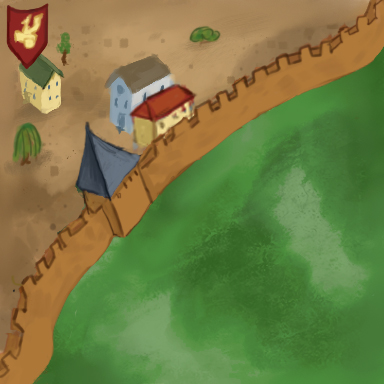
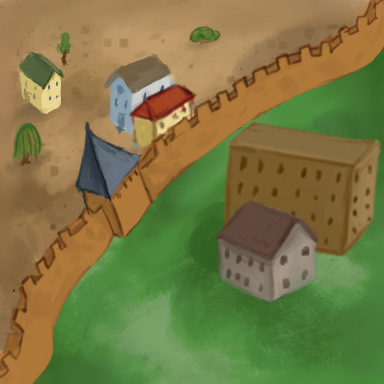
fix(tiles): new start tile

Changed region(s): [[0.5, 0.3125, 1.0, 0.7812], [0.0, 0.0, 0.125, 0.1875]]

diff --git a/client/src/pages/HomePage/modules/Rules.tsx b/client/src/pages/HomePage/modules/Rules.tsx
@@ -5,13 +5,10 @@ import {BsBrightnessHigh, BsHouse, BsLightningCharge, BsPeople, BsPerson, BsStac
 import {HiOutlineSquare3Stack3D} from "react-icons/hi2";
 import {GiBrain, GiChessKing} from "react-icons/gi";
 import {FaRegChessKnight} from "react-icons/fa6";
+import {H2} from "@UI/Typography/H2.tsx";
 
-interface HeroSectionProps {
 
-}
-
-// https://floatui.com/components/feature-sections
-export const FeaturesSection: React.FC<HeroSectionProps> = memo(({}) => {
+export const Rules: React.FC<{}> = memo(({}) => {
 
     const features = [
         {
@@ -47,11 +44,34 @@ export const FeaturesSection: React.FC<HeroSectionProps> = memo(({}) => {
     ];
 
     return (
-        <section className="" id="features">
+        <section className="mt-12" id="features">
             <div className="page-container py- text-gray-60">
-                <H3 className="mb-5 text-app-accent sm:text-2xl text-xl">Преимущества:</H3>
+                <H2 className="mb-5 text-app-accent text-3xl">Краткие правила:</H2>
 
-                <Features features={features} />
+                <div className="w-full text-left text-lg">
+                    В «СмолКассоне» вам предстоит составлять карту Смоленска из квадратов с нарисованными на них
+                    дорогами, крепостью и посадами. На эти квадраты, которые называются <b>тайлы</b>, вы будете ставить
+                    фишки известных людей Смоленщины - <b>Смоляне</b>, чтобы впоследствии получить за них победные очки.
+                    В ходе партии один из игроков может сильно вырваться вперёд, однако победа присуждается только по результатам финального подсчёта очков.
+                </div>
+
+                <ul className="grid gap-y-12 gap-x-12 sm:grid-cols-2 lg:grid-cols-3">
+                    <li className="space-y-3 text-center">
+                        <div
+                            className="w-12 h-12 mx-auto bg-indigo-50 text-indigo-600 rounded-full flex items-center justify-center"
+                        >
+
+                        </div>
+
+                        <h4 className="text-lg text-gray-800 font-semibold">
+                            Выбор Смолян
+                        </h4>
+
+                        <p>
+                            На тайлах изображе
+                        </p>
+                    </li>
+                </ul>
             </div>
         </section>
     );

diff --git a/client/src/pages/GamePage/classes/TilesDeck.tsx b/client/src/pages/GamePage/classes/TilesDeck.tsx
@@ -40,9 +40,10 @@ class TilesDeck {
         {id: 16, design: "F", borders: ['field', 'city', 'field', 'city'], pennant: true, rotation: 0},
         {id: 17, design: "F", borders: ['field', 'city', 'field', 'city'], pennant: true, rotation: 0},
         {id: 18, design: "G", borders: ['field', 'city', 'field', 'city'], rotation: 0},
+        {id: 18, design: "G", borders: ['field', 'city', 'field', 'city'], rotation: 0},
         {id: 22, design: "I", borders: ['city', 'field', 'field', 'city'], rotation: 0},
         {id: 23, design: "I", borders: ['city', 'field', 'field', 'city'], rotation: 0},
-        {id: 24, design: "J", borders: ['city', 'road', 'road', 'field'], rotation: 0},
+        {id: 24, design: "J-1", borders: ['city', 'road', 'road', 'field'], rotation: 0},
         {id: 25, design: "J", borders: ['city', 'road', 'road', 'field'], rotation: 0},
         {id: 26, design: "J", borders: ['city', 'road', 'road', 'field'], rotation: 0},
         {id: 33, design: "M", borders: ['city', 'field', 'field', 'city'], pennant: true, rotation: 0},
@@ -50,6 +51,7 @@ class TilesDeck {
         {id: 40, design: "P", borders: ['city', 'road', 'road', 'city'], rotation: 0},
         {id: 41, design: "P", borders: ['city', 'road', 'road', 'city'], rotation: 0},
         {id: 42, design: "P", borders: ['city', 'road', 'road', 'city'], rotation: 0},
+        {id: 42, design: "R-1", borders: ['field', 'road', 'city', 'road'], rotation: 0},
         {id: 50, design: "U", borders: ['road', 'field', 'road', 'field'], rotation: 0},
         {id: 51, design: "U", borders: ['road', 'field', 'road', 'field'], rotation: 0},
         {id: 52, design: "U", borders: ['road', 'field', 'road', 'field'], rotation: 0},

diff --git a/client/src/pages/HomePage/HomePage.tsx b/client/src/pages/HomePage/HomePage.tsx
@@ -7,6 +7,7 @@ import {CTASection} from "@pages/HomePage/modules/CTASection.tsx";
 import {Page} from "@modules/PageTemplates";
 import {LogoGridSection} from "@pages/HomePage/modules/LogoGridSection.tsx";
 import {FaqSection} from "@pages/HomePage/modules/FAQSection.tsx";
+import {Rules} from "@pages/HomePage/modules/Rules.tsx";
 
 export const HomePage = () => {
     const user = useTSelector(state => state.auth.user);
@@ -16,13 +17,15 @@ export const HomePage = () => {
             className="w-screen pt-0"
         >
             <Helmet>
-                <title>Главная</title>
+                <title>СмолКассон - Главная</title>
                 <link rel="canonical" href={import.meta.env.VITE_APP_URL + '/'}/>
             </Helmet>
 
             <HeroSection />
 
             <FeaturesSection />
+
+            <Rules />
 
             <FaqSection />
 

diff --git a/client/src/pages/GamePage/modules/StartGameScreen/StartGameScreen.tsx b/client/src/pages/GamePage/modules/StartGameScreen/StartGameScreen.tsx
@@ -160,7 +160,7 @@ export const StartGameScreen: React.FC<StartGameScreenProps> = memo(({
                                 // @ts-ignore
                                 textWrap: 'balance'
                             }}>
-                                Выберите Смолян, которые будут в вашей колоде
+                                Выберите 5 Смолян, которые будут в вашей колоде
                                 ({selectedUnits.length}/{MY_UNITS_MAX_COUNT})
                             </div>}
                         </div>

diff --git a/client/src/pages/GamePage/classes/TilesMap.ts b/client/src/pages/GamePage/classes/TilesMap.ts
@@ -46,8 +46,8 @@ export class TilesMap {
     public getStartingMap(mapCenter: number, tileSize: number) {
         return [new Tile({
             id: 0,
-            design: "D",
-            borders: ['city', 'road', 'field', 'road'],
+            design: "R-1",
+            borders: ['field', 'road', 'city', 'road'],
             pennant: false,
             coords: {x: mapCenter - mapCenter % tileSize, y: mapCenter - mapCenter % tileSize}
         })];

diff --git a/client/src/pages/GamePage/GamePage.tsx b/client/src/pages/GamePage/GamePage.tsx
@@ -184,7 +184,7 @@ export const GamePage = () => {
         ]}>
             <div className="w-full h-full cursor-default">
                 <Helmet>
-                    <title>СмолКассон</title>
+                    <title>СмолКассон - играть</title>
                     <link rel="canonical" href={import.meta.env.VITE_APP_URL + '/game'}/>
                 </Helmet>
 

diff --git a/client/tailwind.config.js b/client/tailwind.config.js
@@ -26,8 +26,6 @@ module.exports = {
                       '#2467cc',
                   'app-accent':
                       '#6366f1',
-
-
               },
               animation: {
                   'slide-up': 'slide-up .7s ease-in-out',
